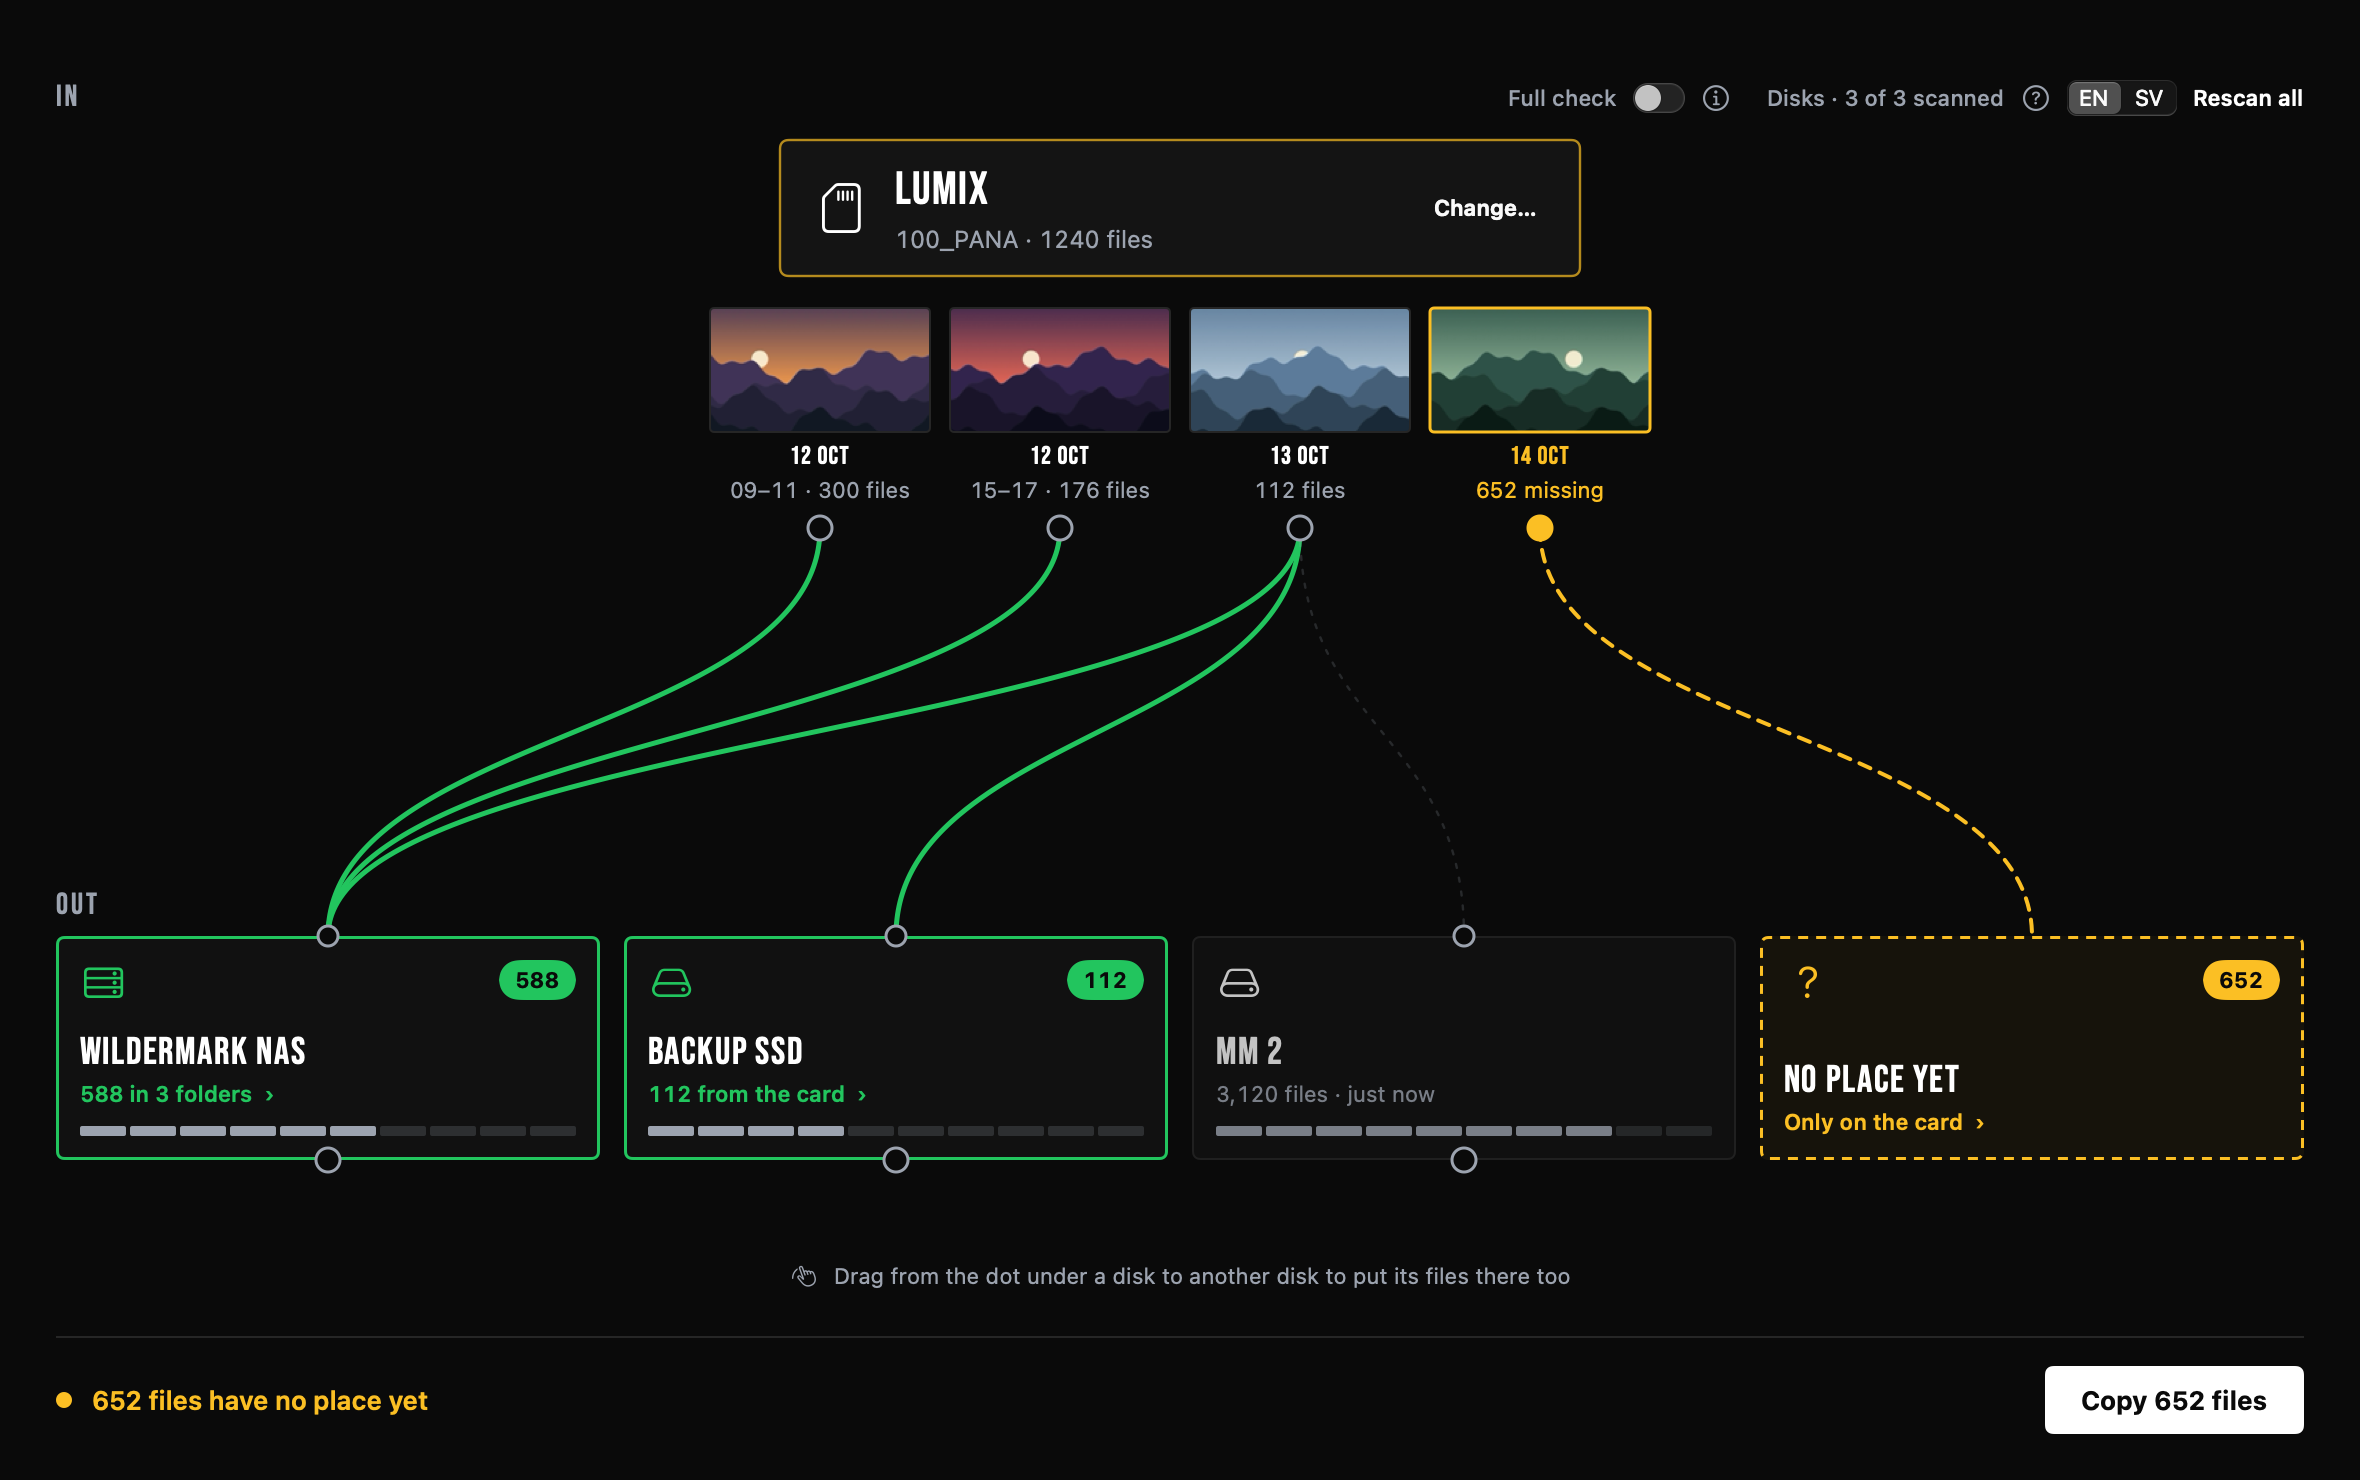
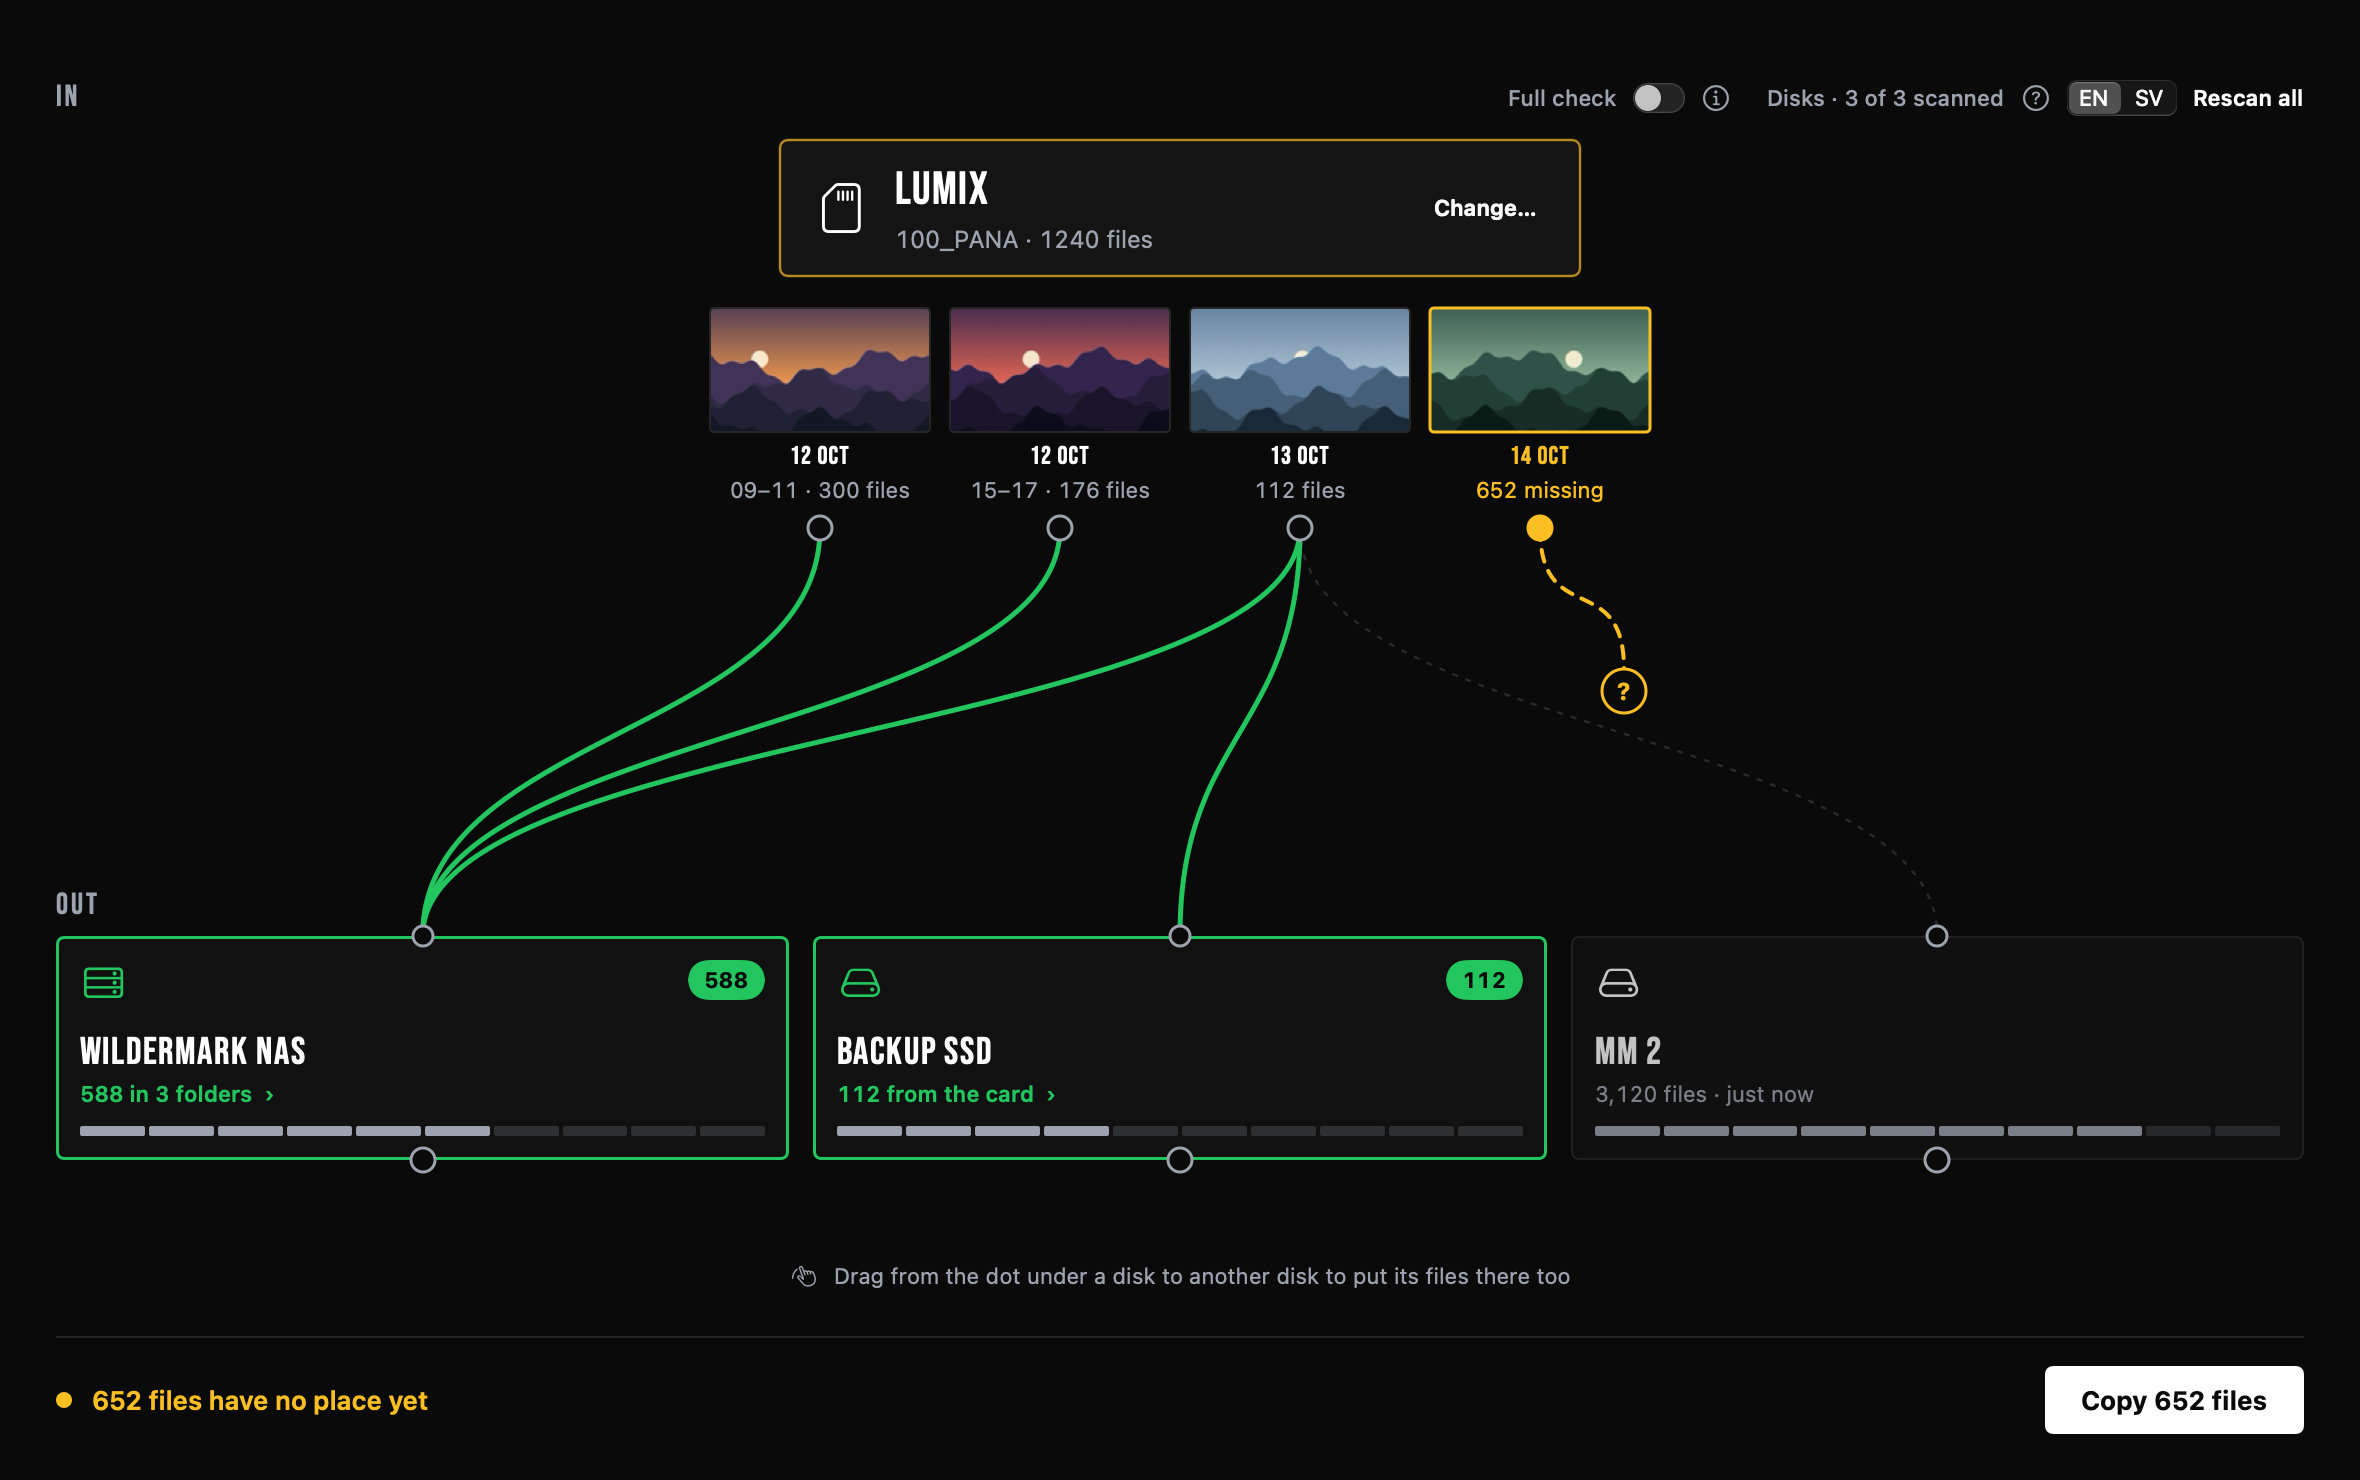
Update screenshots to 0.2
New screenshots of the question mark, two drives with a folder template,
and the copy animation used on the download page.

diff --git a/README.md b/README.md
@@ -2,7 +2,7 @@
 
 A small Mac app for offloading memory cards. It shows which files on a card, disk or folder are already on your other drives or NAS, and where.
 
-![A card with one shoot that isn't backed up yet](docs/missing.png)
+![A card with one shoot that isn't backed up yet: its line ends in a question mark](docs/missing.png)
 
 - See every shoot on the card, with a line to each drive that already has it. Anything that isn't backed up shows up in yellow.
 - Drag a shoot to a drive to copy it. Every copy is checked against the original with xxHash-64.
@@ -23,6 +23,8 @@ No list can cover everything. If a card holds a file WilderLoader doesn't recogn
 ![Everything on the card is on a drive](docs/safe.png)
 
 ![Which folders each date ended up in](docs/map.png)
+
+![Copying to two drives at once with a folder template](docs/two-disks.png)
 
 The screenshots use demo data.
 
